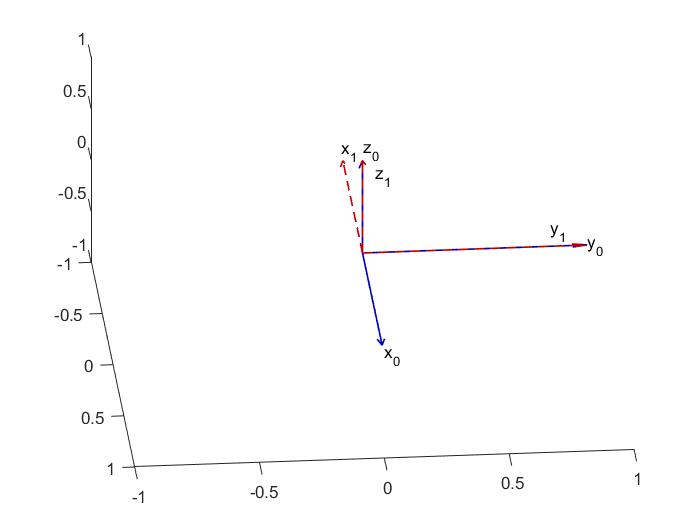
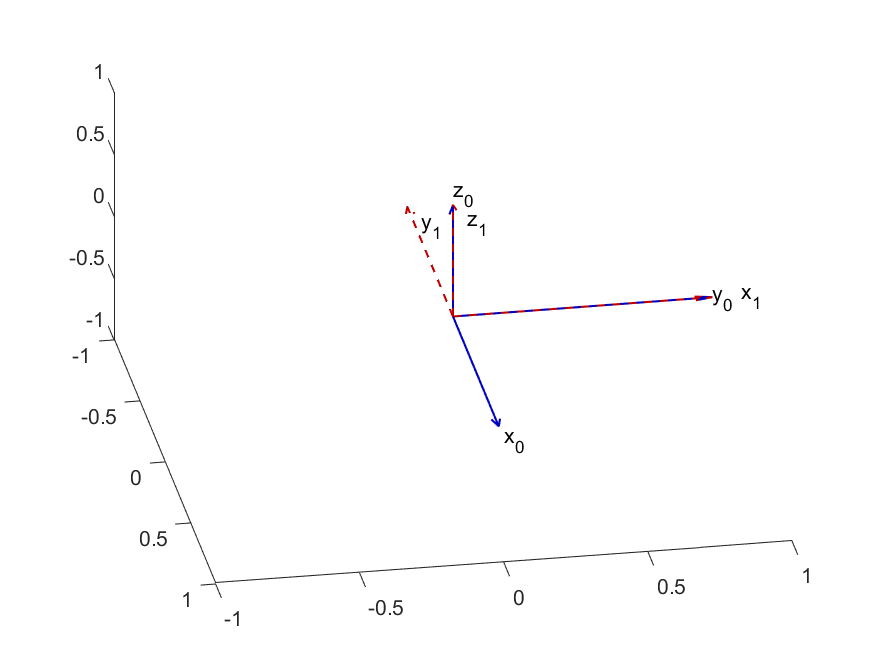
Completed Question 7 and 8

diff --git a/hw2.tex b/hw2.tex
@@ -148,9 +148,9 @@
                     \end{bmatrix}\\
                     C_{y,\theta} & =
                     \begin{bmatrix}
-                        cos(\theta) & 0 & -sin(\theta) \\
-                        0           & 1 & 0            \\
-                        sin(\theta) & 0 & cos(\theta)  \\
+                        cos(\theta)  & 0 & sin(\theta) \\
+                        0            & 1 & 0           \\
+                        -sin(\theta) & 0 & cos(\theta) \\
                     \end{bmatrix}\\
                 \end{split}
                 \label{eq:1}
@@ -394,11 +394,11 @@
                     \begin{split}
                         C^a_b & =
                         \begin{bmatrix}
-                            \frac{\sqrt{2}}{2} & 0  & -\frac{\sqrt{2}}{2} \\
-                                               &    &                     \\
-                            \frac{\sqrt{2}}{2} & 0  & \frac{\sqrt{2}}{2}  \\
-                                               &    &                     \\
-                            0                  & -1 & 0                   \\
+                            \frac{\sqrt{2}}{2}  & \frac{\sqrt{2}}{2} & 0  \\
+                                                &                    &    \\
+                            0                   & 0                  & -1 \\
+                                                &                    &    \\
+                            -\frac{\sqrt{2}}{2} & \frac{\sqrt{2}}{2} & 0  \\
                         \end{bmatrix}
                     \end{split}
                     \label{eq:10}
@@ -411,7 +411,7 @@
         \begin{itemize}
             \item[i.]{$-90^o$ about the fixed $z$-axis}
             \item[ii.]{$90^o$ about the current $y$-axis}
-            \item[iii.]{$-90^o$ about the current $x$-axis}
+            \item[iii.]{$-90^o$ about the fixed $x$-axis}
         \end{itemize}
         Find the resulting rotation matrix $C^0_1$ and sketch frames $\{0\}$ and $\{1\}$ relative to each other.
     }
@@ -419,16 +419,16 @@
     \solution{%
         From class, we know that relative rotations append to the current rotation and that fixed rotations prepend the current rotation, we can formulate the rotation $C^0_1$ to be
         \begin{equation*}
-            C^0_1 = R_{z,-90}R_{y,90}R_{x,-90}.
+            C^0_1 = R_{x,-90}R_{z,-90}R_{y,90}.
         \end{equation*}
         Then, using the same custom MATLAB function as used in question \ref{question@6}\ref{part@6@1}, we can calculate $C^0_1$.
         \begin{equation}
             \begin{split}
                 C^0_1 & =
                 \begin{bmatrix}
-                    0 & 0 & -1 \\
-                    0 & 1 & 0  \\
-                    1 & 0 & 0  \\
+                    0  & 1 & 0 \\
+                    -1 & 0 & 0 \\
+                    0  & 0 & 1 \\
                 \end{bmatrix}\\
             \end{split}
             \label{eq:12}
@@ -442,9 +442,32 @@
     }
     \clearpage
     \question{Given the roll-pitch-yaw angles ($\phi$, $\theta$, $\psi$) = ($120^o$, $45^o$, $-120^o$), find the rotation matrix that describes the same orientation. Assume the $ZYX$ series of rotations. Verify that you have constructed the correct rotation matrix by backing out the angles.}
-    
+
     \solution{%
-    
+    For a fixed rotation set of roll-pitch-yaw angles, we can find the rotation matrix by doing a fixed rotation sequence in 3 steps. This reflects that $C_0^1 = R_{\phi,120}\,R_{theta,45}\,R_{\psi,-120}$. Multiplying these matrices together gives us
+    \begin{equation*}
+        C_0^1 =
+        \begin{bmatrix}
+            -0.35355 & 0.61237  & 0.70711  \\
+            0.12683  & 0.78033  & -0.61237 \\
+            -0.92678 & -0.12683 & -0.35355 \\
+        \end{bmatrix}
+    \end{equation*}
+
+    To verify that this is correct we can back-solve for the Euler angles using the following equations (Equation \ref{eq:13}).
+    \begin{equation}
+        \begin{split}
+            \phi & = tan^{-1}\left(\frac{-C_{23}}{C_{33}}\right) \\
+            \theta & = tan^{-1}\left(\frac{-C_{13}}{\sqrt{C_{23}^2 + C_{33}^2}}\right) \\
+            \psi & = tan^{-1}\left(\frac{-C_{12}}{C_{11}}\right)\\
+        \end{split}
+        \label{eq:13}
+    \end{equation}
+    From equation \ref{eq:13}, we get
+    \[\phi = -60^o \]
+    \[\theta = 45^o \]
+    \[\psi = 60^o \]
+    and upon comparing our given rotation angles to these calculated ones, we are convinced that these angles are the same by understanding that angles can be noted in a positive rotation from $0^o$ to $180^o$.
     }
     \clearpage
     \question{(Required for 6790 only) Consider the threee coordinate frames $\{\alpha\}$, $\{\beta\}$, and $\{\gamma\}$ shown in the diagram below. Following the notation introduced in the class, find the following Cartesian position vectors (denoted by $\vec{r}$\;) and rotation matrices (denoted by $C$).
@@ -465,4 +488,4 @@
     }
 
 \end{questions}
-\end{document}x
+\end{document}

diff --git a/genDCM.m b/genDCM.m
@@ -26,11 +26,17 @@ if strcmp('deg',units)
         k = Sequence(i);
         switch k
             case 1
-                Matrix(:,:,i) = [1 0 0;0 cosd(Rotations(i)) sind(Rotations(i));0 -sind(Rotations(i)) cosd(Rotations(i))];
+                Matrix(:,:,i) = [1        0                  0           ;...
+                                 0 cosd(Rotations(i)) -sind(Rotations(i));...
+                                 0 sind(Rotations(i)) cosd(Rotations(i))];
             case 2
-                Matrix(:,:,i) = [cosd(Rotations(i)) 0 -sind(Rotations(i));0 1 0;sind(Rotations(i)) 0 cosd(Rotations(i))];
+                Matrix(:,:,i) = [cosd(Rotations(i)) 0 sind(Rotations(i));...
+                                 0                  1        0          ;...
+                                -sind(Rotations(i)) 0 cosd(Rotations(i))];
             case 3
-                Matrix(:,:,i) = [cosd(Rotations(i)) sind(Rotations(i)) 0;-sind(Rotations(i)) cosd(Rotations(i)) 0;0 0 1];
+                Matrix(:,:,i) = [cosd(Rotations(i)) -sind(Rotations(i)) 0;...
+                                 sind(Rotations(i)) cosd(Rotations(i))  0;...
+                                       0                  0             1];
         end
     end
 end
@@ -40,11 +46,17 @@ if strcmp('rad',units)
         k = Sequence(i);
         switch k
             case 1
-                Matrix(:,:,i) = [1 0 0;0 cosd(Rotations(i)) sind(Rotations(i));0 -sind(Rotations(i)) cosd(Rotations(i))];
+                Matrix(:,:,i) = [1        0                  0           ;...
+                                 0 cos(Rotations(i)) -sin(Rotations(i));...
+                                 0 sin(Rotations(i)) cos(Rotations(i))];
             case 2
-                Matrix(:,:,i) = [cosd(Rotations(i)) 0 -sind(Rotations(i));0 1 0;sind(Rotations(i)) 0 cosd(Rotations(i))];
+                Matrix(:,:,i) = [cos(Rotations(i)) 0 sin(Rotations(i));...
+                                 0                 1        0         ;...
+                                -sin(Rotations(i)) 0 cos(Rotations(i))];
             case 3
-                Matrix(:,:,i) = [cosd(Rotations(i)) sind(Rotations(i)) 0;-sind(Rotations(i)) cosd(Rotations(i)) 0;0 0 1];
+                Matrix(:,:,i) = [cos(Rotations(i)) -sin(Rotations(i)) 0;...
+                                 sin(Rotations(i)) cos(Rotations(i))  0;...
+                                       0                  0             1];
         end
     end
 end
@@ -53,7 +65,7 @@ end
 DCM = Matrix(:,:,1);
 for i = 2:n
 
-    DCM = (DCM'*Matrix(:,:,i)')';
+    DCM = (DCM*Matrix(:,:,i));
 
 end
 end

diff --git a/Q7.m b/Q7.m
@@ -5,30 +5,26 @@ close all
 format shortg
 %% Begin Question 7
 
-DCM = genDCM('deg',[-90 90 -90],[3 2 1])
+DCM = genDCM('deg',[-90 -90 90],[1 3 2])
 
-figure
-view(85,45)
+fig1 = figure;
+view(80,45)
 hold on
 xlim([-1.0 1.0])
 ylim([-1.0 1.0])
 zlim([-1.0 1.0])
-% set(gca,"XTickLabel",[])
-% set(gca,"YTickLabel",[])
-% set(gca,"ZTickLabel",[])
-% set(gca,"XTick",[])
-% set(gca,"YTick",[])
-% set(gca,"ZTick",[])
+% Frame 0
 quiver3(0,0,0,1,0,0,'LineWidth',1,'Color',[0 0 0.75],ShowArrowHead='on')
 quiver3(0,0,0,0,1,0,'LineWidth',1,'Color',[0 0 0.75],ShowArrowHead='on')
 quiver3(0,0,0,0,0,1,'LineWidth',1,'Color',[0 0 0.75],ShowArrowHead='on')
 text(1,0,0,'x_0')
 text(0,0.9,0,'y_0')
 text(0,0,1,'z_0')
-quiver3(0,0,0,-1,0,0,'LineWidth',1,'Color',[0.75 0 0],'LineStyle','--',ShowArrowHead='on')
+% Frame 1
 quiver3(0,0,0,0,1,0,'LineWidth',1,'Color',[0.75 0 0],'LineStyle','--',ShowArrowHead='on')
+quiver3(0,0,0,-1,0,0,'LineWidth',1,'Color',[0.75 0 0],'LineStyle','--',ShowArrowHead='on')
 quiver3(0,0,0,0,0,1,'LineWidth',1,'Color',[0.75 0 0],'LineStyle','--',ShowArrowHead='on')
-text(-1,0,0,'x_1')
-text(0,0.75,0.15,'y_1')
+text(0,1,0,'x_1')
+text(-0.75,0.02,0,'y_1')
 text(0,0.05,0.75,'z_1')
-
+saveas(fig1,'Q7.png')

diff --git a/Q8.m b/Q8.m
@@ -1,0 +1,12 @@
+%% Formatting
+clc
+clear
+close all
+format shortg
+
+%% Begin Question 8
+DCM = genDCM('deg',[120 45 -120],[1 2 3])
+
+phi = atand(-DCM(2,3)/DCM(3,3))
+theta = atand(DCM(1,3)/(sqrt(DCM(2,3)^2 + DCM(3,3)^2)))
+psi = atand(-DCM(1,2)/DCM(1,1))
